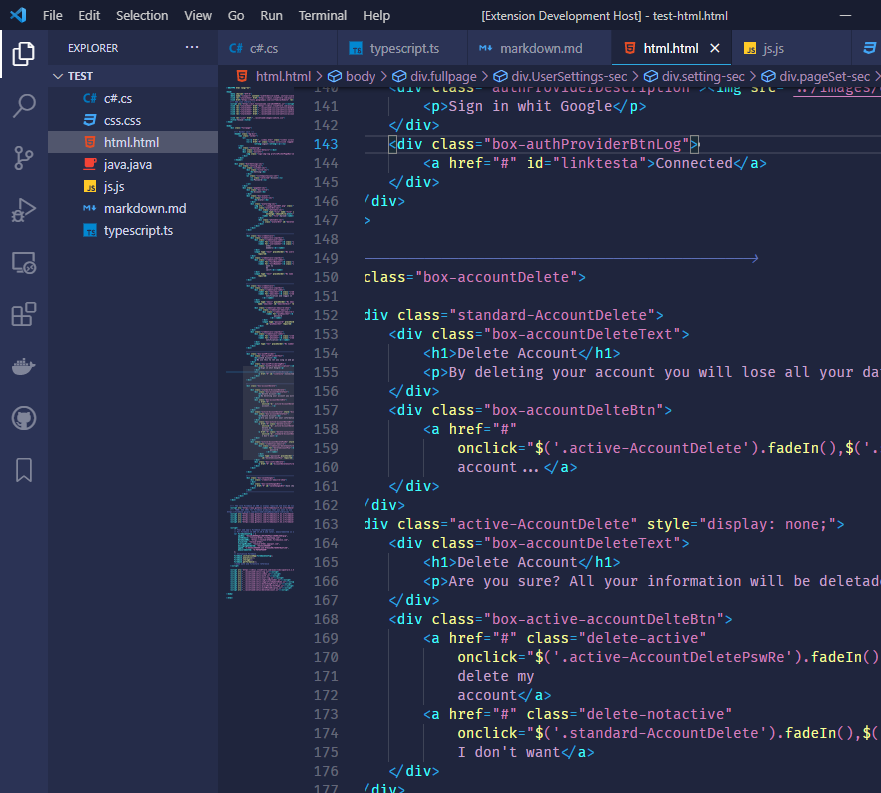
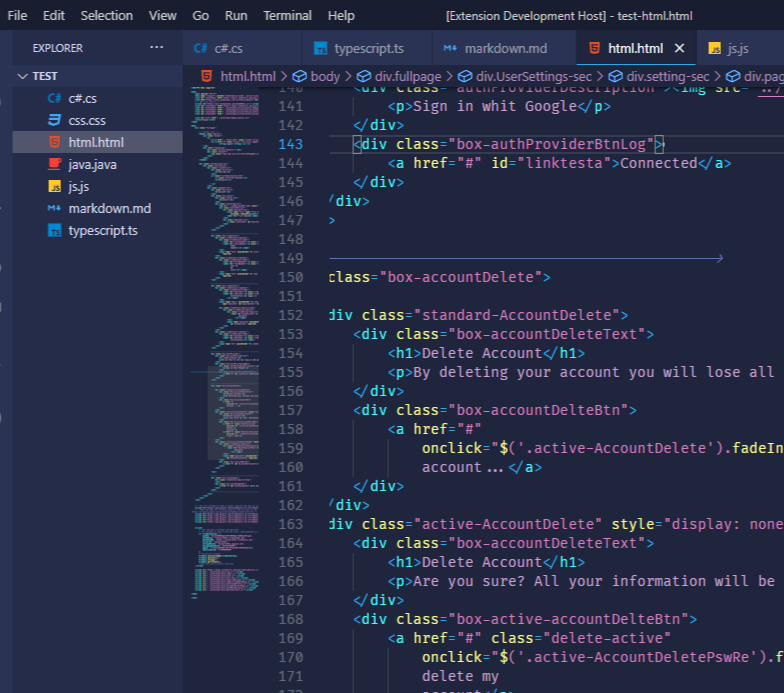
Added new theme variant

diff --git a/README.md b/README.md
@@ -15,7 +15,7 @@
 <h2 align="center">Get the <span style="color:#ff66ff;">Pink</span><span style="color:#66ccff;">Blue</span> into your VS Code.</h2>
 
 
-![Preview](https://github.com/Giacomo002/PinkBlue-Vs-Code-Theme/blob/main/images/screen1-mini.png?raw=true)![Preview](https://github.com/Giacomo002/PinkBlue-Vs-Code-Theme/blob/main/images/screen1-mini.png?raw=true)
+![Preview](https://github.com/Giacomo002/PinkBlue-Vs-Code-Theme/blob/main/images/bluedtheme.png?raw=true)![Preview](https://github.com/Giacomo002/PinkBlue-Vs-Code-Theme/blob/main/images/pinkbluetheme.png?raw=true)
 # Installation
 
 1. Open **Extensions** sidebar panel in VS Code. `View → Extensions`
